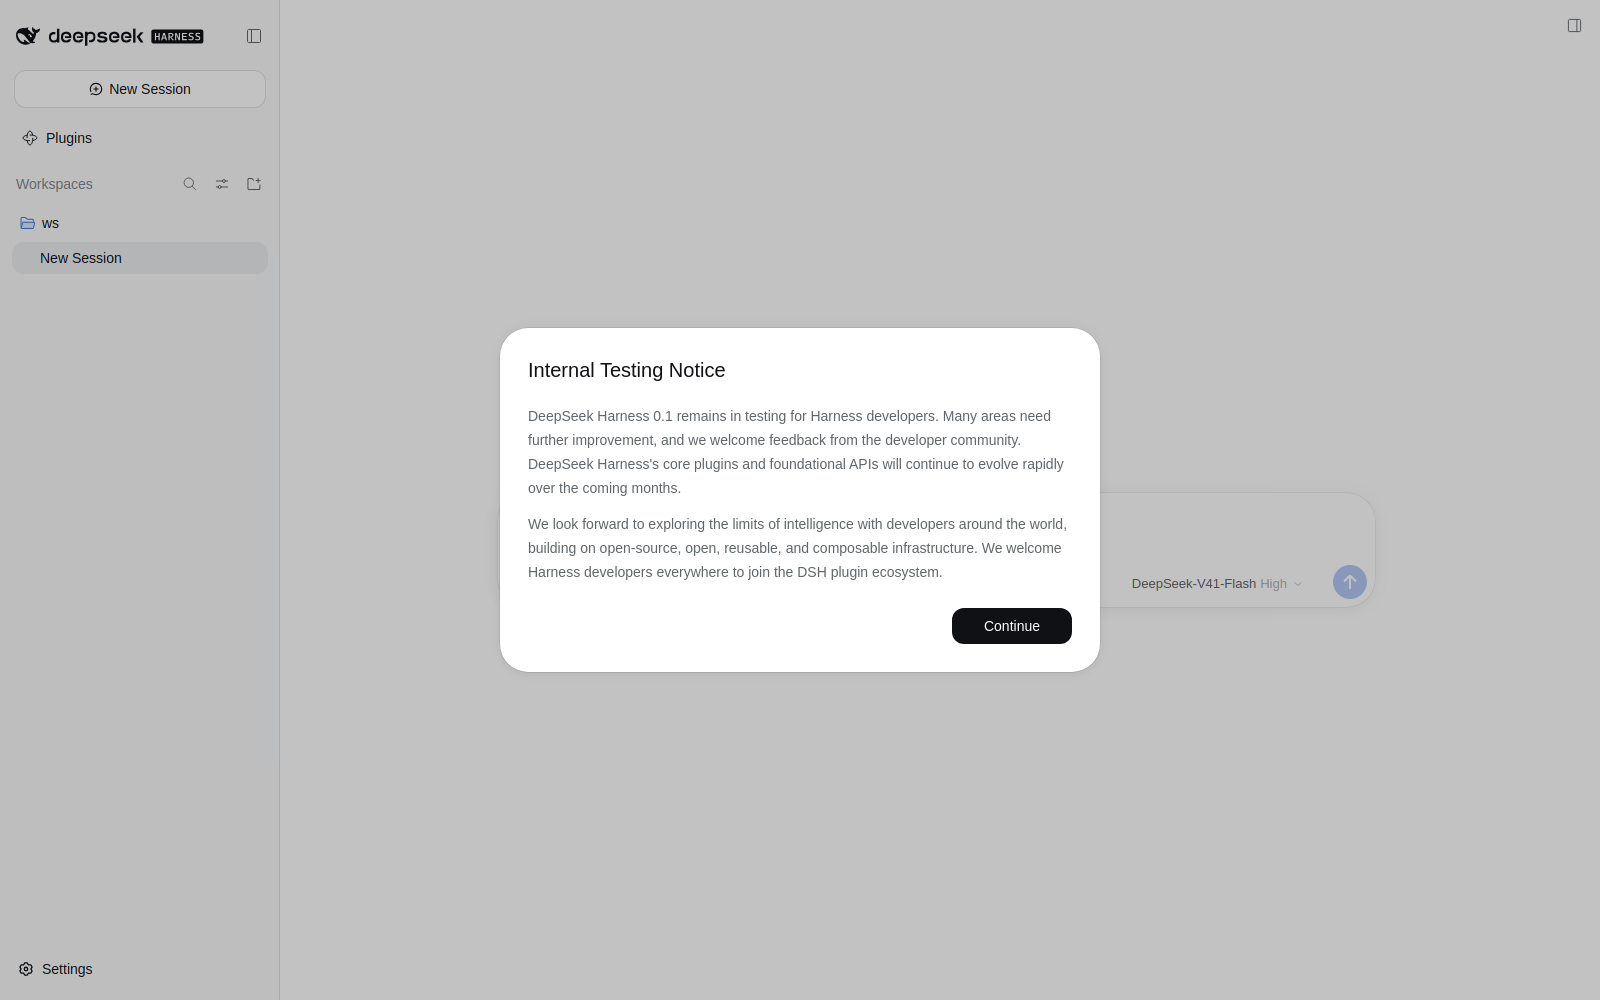
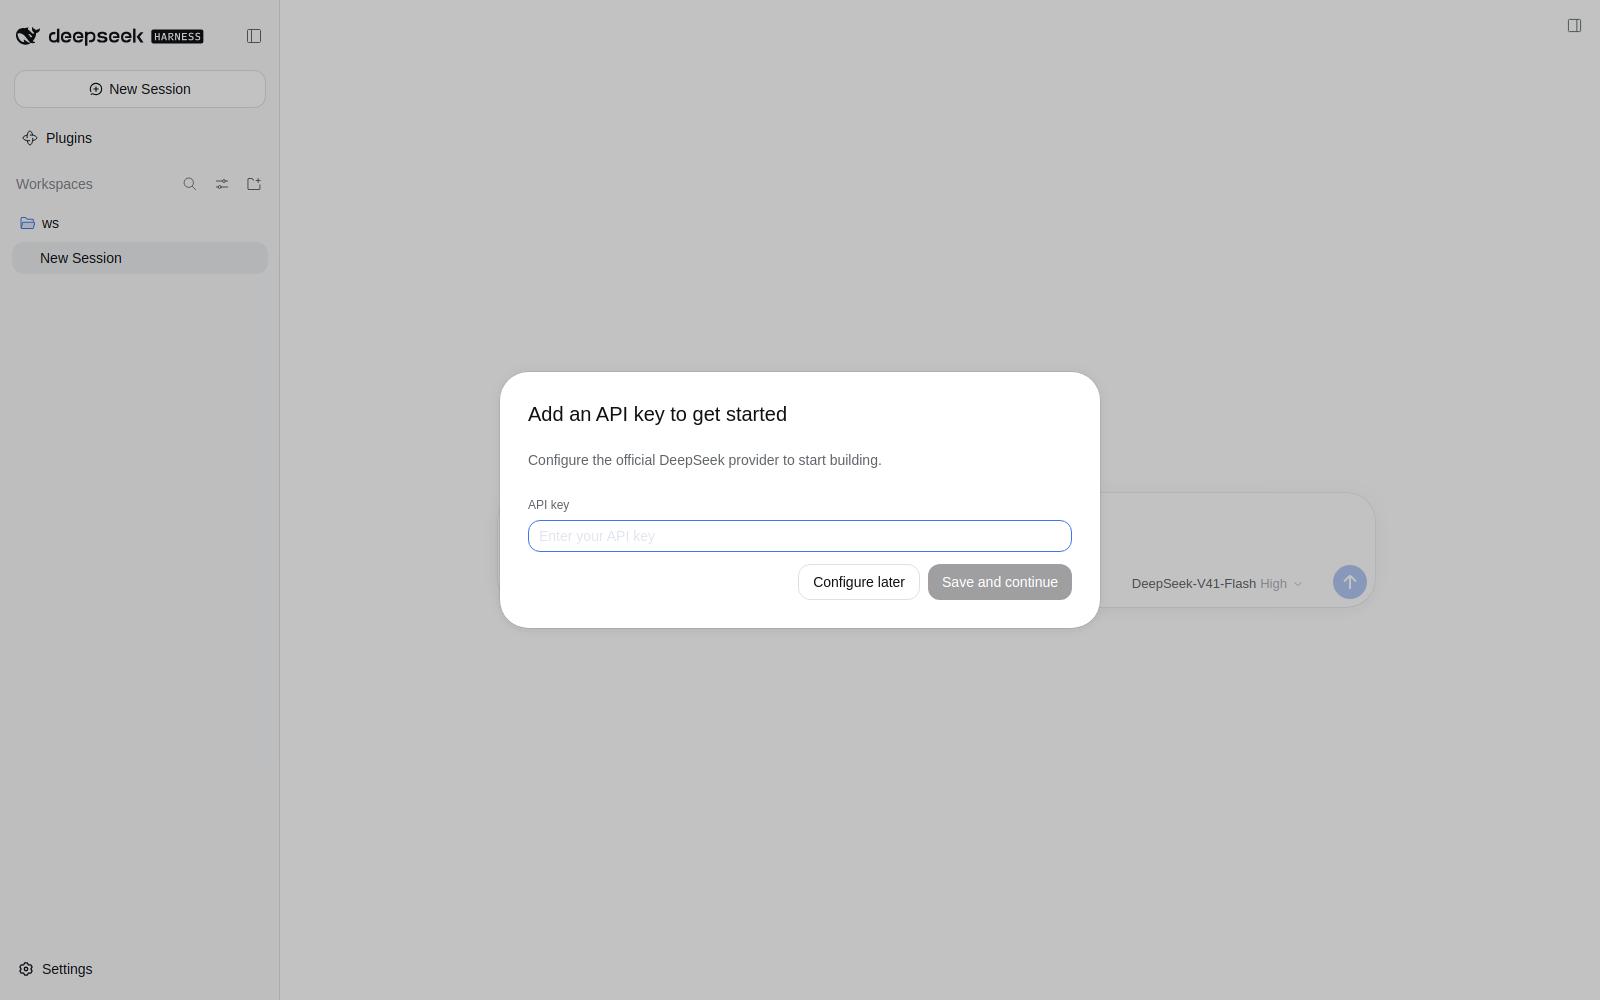
fix(ui): the MPD settings section renders — the service name was the whole of it
The Settings dialog showed General / Models / Built-in plugins / Agent presets and no mpd entry.
The card mounted its content inside ctx.inject(["settingsScope"], …), and that service exists
NOWHERE in harness 0.1.7-rc.2: the callback never fired, and the path logged nothing, so the
absence was silent.

ctx.configForms.get(ns) hands back a ConfigFormController with the SAME shape the card already
used — getSnapshot, subscribe, set, mutate, unset — so the card itself is untouched and only its
host object moved. The mount stays DEFERRED through ctx.inject(["configForms"], …) for the same
reason it always was: the service comes from another plugin's fiber, so a one-shot probe races
it, and a DECLARED dependency would turn the whole page into `entry: pending`.

Verified on screen in docker/ui: the nav now renders
General / Models / Built-in plugins / Agent presets / MPD (05-settings.png).

The offline arms were migrated with it, and the migration is the interesting part: the fixture
modelled settingsScope.bind({namespace}) — i.e. the test pinned the SAME dead service the code
did, which is exactly how a silently absent section stayed green. The fixture now builds the form
the way configForms.get does, and the arms that asserted the artifact's seam assert
ctx.inject(["configForms"]) instead of the absence of a word prose may legitimately use.

bun test packages: 1187 pass / 0 fail; tsc --noEmit exit 0; test:qa all self-tests passed;
verify:gates 5/5.

Changed region(s): [[0.3125, 0.31, 0.6875, 0.682]]

diff --git a/packages/mpd-bundle-plugin/client.js b/packages/mpd-bundle-plugin/client.js
@@ -4092,7 +4092,7 @@ window.__ModuleLoader__.load({ id: "@mpd-dsh/settings-card", factory: // mpd set
 //   • the component receives `{ t, edit, resetField, save, discard, use<X>Card }`, where `t` comes
 //     from the registered `locale` dictionaries and `use<X>Card` is the hook the registration's
 //     `inject()` result provides;
-//   • the write goes through the PUBLIC client seam `ctx.settingsScope.bind({namespace})`, whose
+//   • the write goes through the PUBLIC client seam `ctx.configForms.get(namespace)`, whose
 //     actions are `set`/`unset`/`mutate(ops, expectedRevision)` — i.e. the `settings/mutate` RPC
 //     the bridge consumes. The client performs NO filesystem I/O and cannot.
 // The host's `PluginCard`/`ValueField` are that package's PRIVATE components and are NOT imported
@@ -5103,7 +5103,7 @@ window.__ModuleLoader__.load({ id: "@mpd-dsh/settings-card", factory: // mpd set
   }
 
   /**
-   * Mount the section. `settingsScope` is a PLUGIN-provided service, so it is reached through
+   * Mount the section. The namespace's form comes from the harness's `configForms` service, so
    * `ctx.inject` — never a declared dependency (a declared-but-absent service makes the whole page
    * fail as `entry: pending`; `web-client-adapt --self-test` asserts this rule against the built
    * client). One warning on absence, never a throw.
@@ -5122,13 +5122,29 @@ window.__ModuleLoader__.load({ id: "@mpd-dsh/settings-card", factory: // mpd set
       }
       ctx.slots.inject(SECTION_SLOT, function* () {
         try {
-          ctx.inject(["settingsScope"], (scoped) => {
-            const service = typeof scoped.get === "function" ? scoped.get("settingsScope") : scoped.settingsScope
-            if (service === undefined || service === null || typeof service.bind !== "function") {
-              console.warn("[mpd] settings section: the settings scope is unavailable — the mpd section is not registered")
+          // THE FORM IS THE SCOPE. Until 2026-09-27 this block waited on
+          // an injected `settingsScope` service, and that service exists NOWHERE in harness
+          // 0.1.7-rc.2 (a grep over every @deepseek-ai/* client bundle returns nothing), so the
+          // callback never fired: the Settings dialog rendered General / Models / Built-in
+          // plugins / Agent presets with NO mpd section, and — because that path logged nothing
+          // — the absence was silent. The harness's own sections reach their namespace through
+          // `ctx.configForms.get(ns)`, whose controller carries the SAME shape this card already
+          // used (`getSnapshot`, `subscribe`, `set`, `mutate`), so the card is unchanged and
+          // only its host object moves.
+          // Read it BOTH ways: a real client context exposes services as properties, while a
+          // stub context (the offline harness) serves them through `get`. The card must not care
+          // which one it is talking to.
+          // STILL DEFERRED, and that is the point: `configForms` is provided by ANOTHER plugin's
+          // fiber, so a one-shot probe at apply() races it. The DYNAMIC form waits for the
+          // provider without parking this boot entry — a declared-but-absent service would turn
+          // the whole page into `entry: pending` (the rule `web-client-adapt --self-test` pins).
+          ctx.inject(["configForms"], (scoped) => {
+            const forms = (typeof scoped.get === "function" ? scoped.get("configForms") : undefined) ?? scoped.configForms
+            if (forms === undefined || forms === null || typeof forms.get !== "function") {
+              console.warn("[mpd] settings section: this harness exposes no configForms service — the mpd section is not registered")
               return
             }
-            const scope = service.bind({ namespace: NS })
+            const scope = forms.get(NS)
             // The LIVE catalog: injected (never probed), subscribed, and re-projected into the
             // card's own store on every change. Started BEFORE the registration so the first
             // render already carries the real list when the providers are up.
@@ -6909,7 +6925,7 @@ window.__ModuleLoader__.load({ id: "@mpd-dsh/mpd", factory: // mpd bundle web cl
   }
 
   /**
-   * Mount the section. `settingsScope` is a PLUGIN-provided service, so it is reached through
+   * Mount the section. The namespace's form comes from the harness's `configForms` service, so
    * `ctx.inject` — never a declared dependency (a declared-but-absent service makes the whole page
    * fail as `entry: pending`; `web-client-adapt --self-test` asserts this rule against the built
    * client). One warning on absence, never a throw.
@@ -6928,13 +6944,29 @@ window.__ModuleLoader__.load({ id: "@mpd-dsh/mpd", factory: // mpd bundle web cl
       }
       ctx.slots.inject(SECTION_SLOT, function* () {
         try {
-          ctx.inject(["settingsScope"], (scoped) => {
-            const service = typeof scoped.get === "function" ? scoped.get("settingsScope") : scoped.settingsScope
-            if (service === undefined || service === null || typeof service.bind !== "function") {
-              console.warn("[mpd] settings section: the settings scope is unavailable — the mpd section is not registered")
+          // THE FORM IS THE SCOPE. Until 2026-09-27 this block waited on
+          // an injected `settingsScope` service, and that service exists NOWHERE in harness
+          // 0.1.7-rc.2 (a grep over every @deepseek-ai/* client bundle returns nothing), so the
+          // callback never fired: the Settings dialog rendered General / Models / Built-in
+          // plugins / Agent presets with NO mpd section, and — because that path logged nothing
+          // — the absence was silent. The harness's own sections reach their namespace through
+          // `ctx.configForms.get(ns)`, whose controller carries the SAME shape this card already
+          // used (`getSnapshot`, `subscribe`, `set`, `mutate`), so the card is unchanged and
+          // only its host object moves.
+          // Read it BOTH ways: a real client context exposes services as properties, while a
+          // stub context (the offline harness) serves them through `get`. The card must not care
+          // which one it is talking to.
+          // STILL DEFERRED, and that is the point: `configForms` is provided by ANOTHER plugin's
+          // fiber, so a one-shot probe at apply() races it. The DYNAMIC form waits for the
+          // provider without parking this boot entry — a declared-but-absent service would turn
+          // the whole page into `entry: pending` (the rule `web-client-adapt --self-test` pins).
+          ctx.inject(["configForms"], (scoped) => {
+            const forms = (typeof scoped.get === "function" ? scoped.get("configForms") : undefined) ?? scoped.configForms
+            if (forms === undefined || forms === null || typeof forms.get !== "function") {
+              console.warn("[mpd] settings section: this harness exposes no configForms service — the mpd section is not registered")
               return
             }
-            const scope = service.bind({ namespace: NS })
+            const scope = forms.get(NS)
             // The LIVE catalog: injected (never probed), subscribed, and re-projected into the
             // card's own store on every change. Started BEFORE the registration so the first
             // render already carries the real list when the providers are up.

diff --git a/packages/mpd-bundle-plugin/src/settings-card.js b/packages/mpd-bundle-plugin/src/settings-card.js
@@ -22,7 +22,7 @@
 //   • the component receives `{ t, edit, resetField, save, discard, use<X>Card }`, where `t` comes
 //     from the registered `locale` dictionaries and `use<X>Card` is the hook the registration's
 //     `inject()` result provides;
-//   • the write goes through the PUBLIC client seam `ctx.settingsScope.bind({namespace})`, whose
+//   • the write goes through the PUBLIC client seam `ctx.configForms.get(namespace)`, whose
 //     actions are `set`/`unset`/`mutate(ops, expectedRevision)` — i.e. the `settings/mutate` RPC
 //     the bridge consumes. The client performs NO filesystem I/O and cannot.
 // The host's `PluginCard`/`ValueField` are that package's PRIVATE components and are NOT imported
@@ -1033,7 +1033,7 @@
   }
 
   /**
-   * Mount the section. `settingsScope` is a PLUGIN-provided service, so it is reached through
+   * Mount the section. The namespace's form comes from the harness's `configForms` service, so
    * `ctx.inject` — never a declared dependency (a declared-but-absent service makes the whole page
    * fail as `entry: pending`; `web-client-adapt --self-test` asserts this rule against the built
    * client). One warning on absence, never a throw.
@@ -1052,13 +1052,29 @@
       }
       ctx.slots.inject(SECTION_SLOT, function* () {
         try {
-          ctx.inject(["settingsScope"], (scoped) => {
-            const service = typeof scoped.get === "function" ? scoped.get("settingsScope") : scoped.settingsScope
-            if (service === undefined || service === null || typeof service.bind !== "function") {
-              console.warn("[mpd] settings section: the settings scope is unavailable — the mpd section is not registered")
+          // THE FORM IS THE SCOPE. Until 2026-09-27 this block waited on
+          // an injected `settingsScope` service, and that service exists NOWHERE in harness
+          // 0.1.7-rc.2 (a grep over every @deepseek-ai/* client bundle returns nothing), so the
+          // callback never fired: the Settings dialog rendered General / Models / Built-in
+          // plugins / Agent presets with NO mpd section, and — because that path logged nothing
+          // — the absence was silent. The harness's own sections reach their namespace through
+          // `ctx.configForms.get(ns)`, whose controller carries the SAME shape this card already
+          // used (`getSnapshot`, `subscribe`, `set`, `mutate`), so the card is unchanged and
+          // only its host object moves.
+          // Read it BOTH ways: a real client context exposes services as properties, while a
+          // stub context (the offline harness) serves them through `get`. The card must not care
+          // which one it is talking to.
+          // STILL DEFERRED, and that is the point: `configForms` is provided by ANOTHER plugin's
+          // fiber, so a one-shot probe at apply() races it. The DYNAMIC form waits for the
+          // provider without parking this boot entry — a declared-but-absent service would turn
+          // the whole page into `entry: pending` (the rule `web-client-adapt --self-test` pins).
+          ctx.inject(["configForms"], (scoped) => {
+            const forms = (typeof scoped.get === "function" ? scoped.get("configForms") : undefined) ?? scoped.configForms
+            if (forms === undefined || forms === null || typeof forms.get !== "function") {
+              console.warn("[mpd] settings section: this harness exposes no configForms service — the mpd section is not registered")
               return
             }
-            const scope = service.bind({ namespace: NS })
+            const scope = forms.get(NS)
             // The LIVE catalog: injected (never probed), subscribed, and re-projected into the
             // card's own store on every change. Started BEFORE the registration so the first
             // render already carries the real list when the providers are up.

diff --git a/docs/plan-ui-team-gui.md b/docs/plan-ui-team-gui.md
@@ -125,10 +125,15 @@ Two distinct causes, one fixed and one not:
   warning either. The slot name is right (`settings.section` is what the harness's own sections
   use); the SERVICE is gone.
 
-  The real contract, read from `dsh-client-ui-settings-general`: a section declares
-  `inject = ["slots","locale","connection","remote","remote.settings","configForms","shortcuts"]`,
-  registers into `settings.section` with `{ close }`, and reads/writes values through
-  **`configForms` + `remote.settings`**. Re-basing our 1128-line card onto that is the W4 task.
+  **FIXED in the same wave, and verified on screen:** the service name was the whole of it.
+  `ctx.configForms.get(ns)` hands back a `ConfigFormController` with the SAME shape the card already
+  used (`getSnapshot`, `subscribe`, `set`, `mutate`, `unset`), so the card is untouched and only its
+  host object moved — and the mount stays DEFERRED through `ctx.inject(["configForms"], …)`, which is
+  what the harness's own sections do, because the service comes from another plugin's fiber and a
+  one-shot probe would race it. The Settings dialog now renders
+  `General / Models / Built-in plugins / Agent presets / MPD` (`05-settings.png`), and the offline
+  arms were migrated with it: the fixture had modelled `settingsScope.bind({namespace})`, i.e. the
+  test pinned the SAME dead service the code did — which is how the absence stayed green.
 
 ### W4 progress (verified on screen)
 
@@ -146,6 +151,9 @@ installs the capture tooling into the volume itself and copies `capture.mjs` / `
 the image, so a rebuilt stack can always look at itself.
 
 - W3: not started in code.
+- W4 next: the MPD section's own page is captured by `05b-mpd-section` now (the nav entry proves the
+  REGISTRATION, the page proves the card renders its rows — different claims); the TUI panels still
+  need the same treatment.
 
 ### How the UI became reachable (solved, keep it)
 
